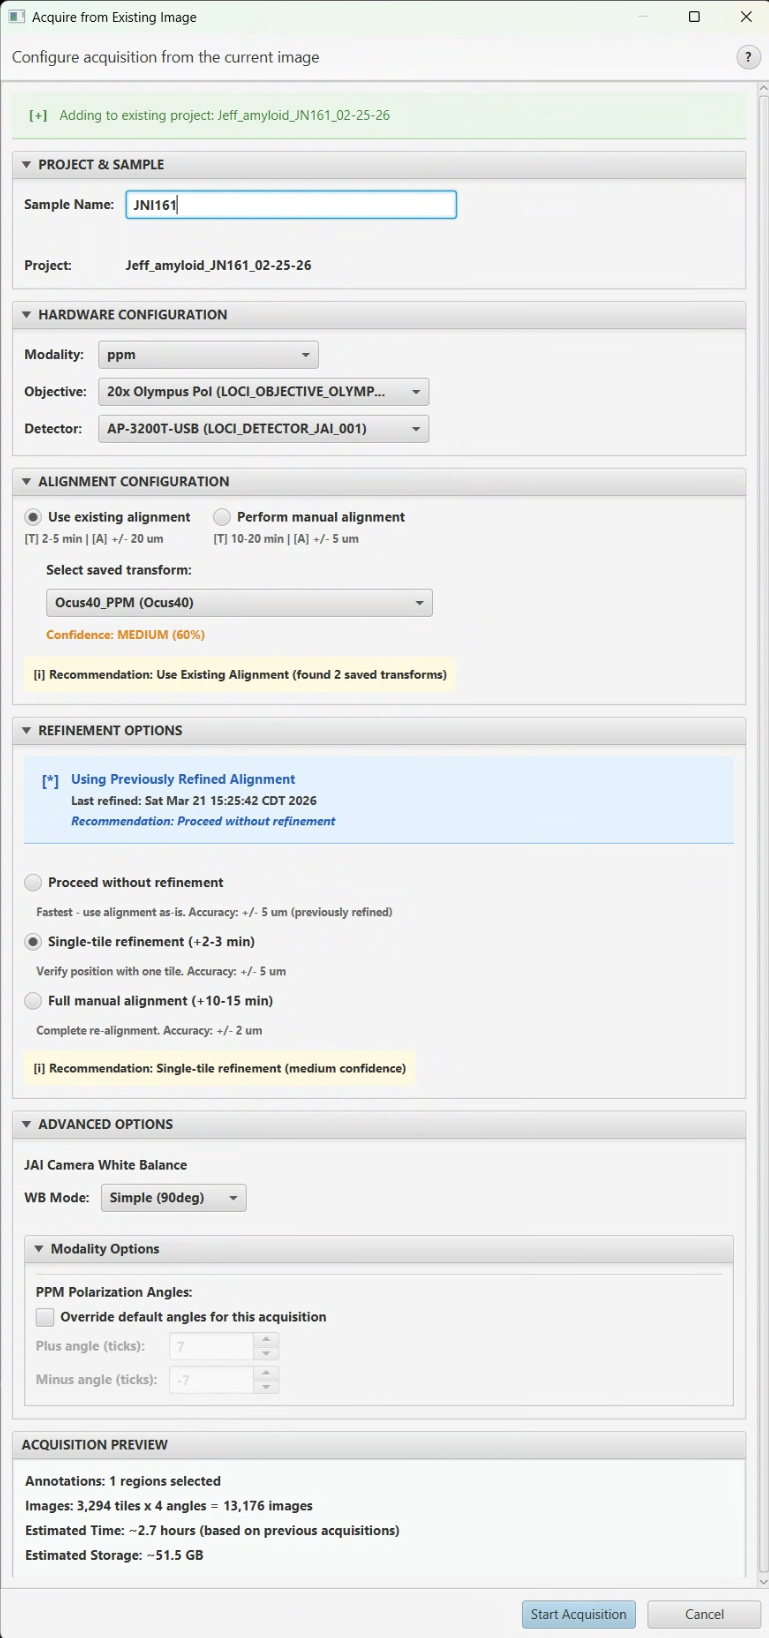
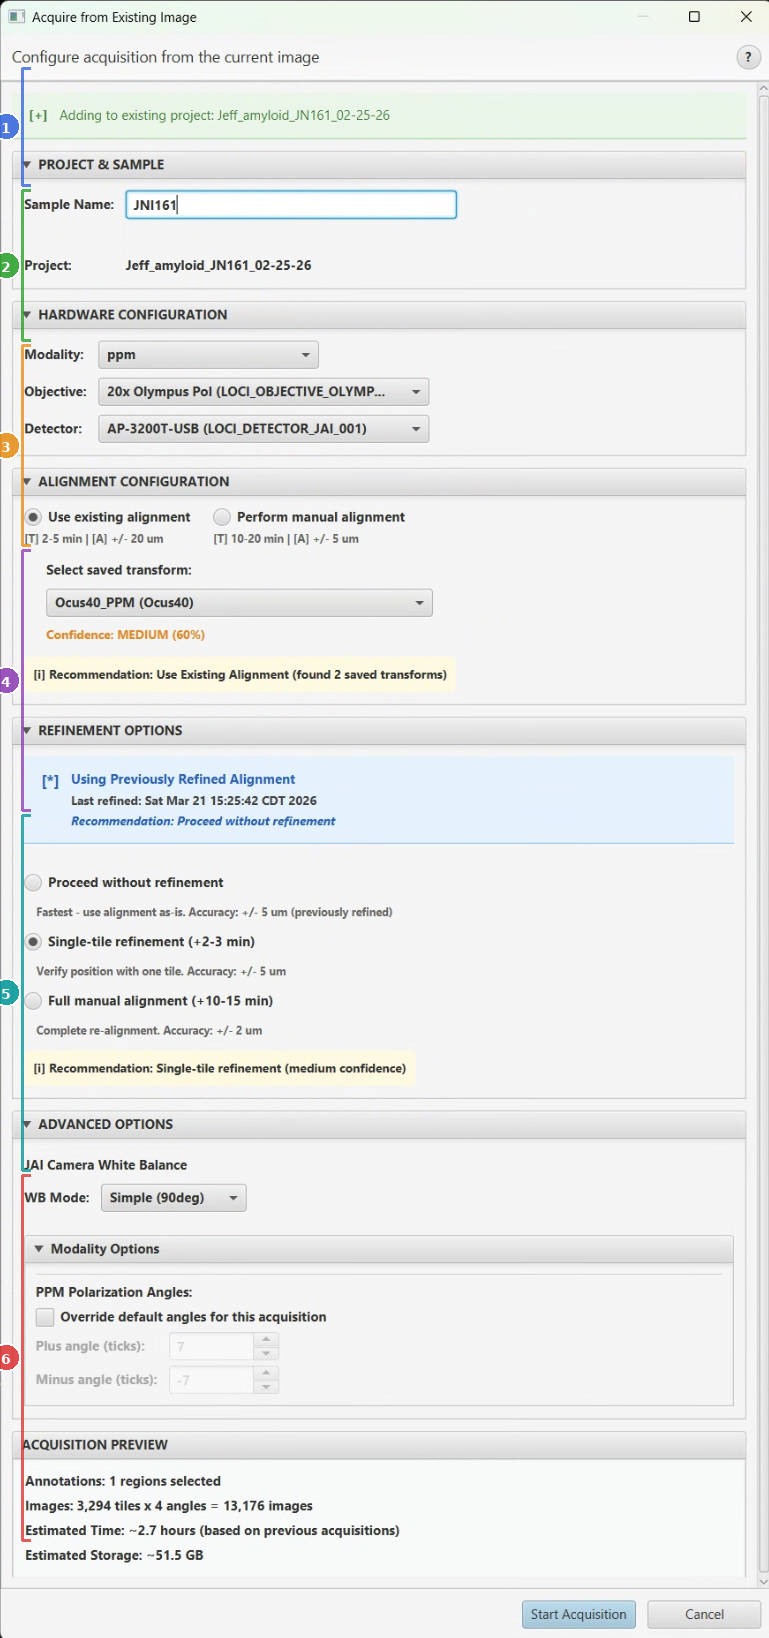
Add numbered section annotations to Existing Image dialog screenshot
Pillow-based annotation tool adds colored numbered brackets to the left
side of the tall dialog, corresponding to (1) Project & Sample,
(2) Hardware Configuration, (3) Alignment Configuration,
(4) Refinement Options, (5) Advanced Options, (6) Acquisition Preview.
WORKFLOWS.md updated to reference section numbers.

Changed region(s): [[0.0, 0.0623, 0.0312, 0.9341]]

diff --git a/documentation/WORKFLOWS.md b/documentation/WORKFLOWS.md
@@ -193,23 +193,22 @@ If annotations with classification labels exist, a dialog shows all available cl
 
 A consolidated dialog appears with several sections:
 
-The dialog is divided into collapsible sections (shown below). You can expand or collapse each section by clicking its header.
+The dialog is divided into six collapsible sections, numbered in the screenshot below. You can expand or collapse each section by clicking its header.
 
-![Acquire from Existing Image dialog -- Project, Hardware, and Alignment sections](images/Docs_ExistingImage_ConsolidatedDialog.png)
+![Acquire from Existing Image dialog with numbered sections](images/Docs_ExistingImage_ConsolidatedDialog.png)
 
-- **Project & Sample** -- The sample name defaults to the image filename. If no project is open, choose a projects folder. If a project is open, it will be reused automatically.
-- **Hardware Configuration** -- Select modality, objective, and detector (same as Bounded Acquisition).
-- **Alignment** -- Choose how to link image coordinates to stage positions:
+- **(1) Project & Sample** -- The sample name defaults to the image filename. If no project is open, choose a projects folder. If a project is open, it will be reused automatically.
+- **(2) Hardware Configuration** -- Select modality, objective, and detector (same as Bounded Acquisition).
+- **(3) Alignment Configuration** -- Choose how to link image coordinates to stage positions:
   - *Use existing transform* -- Select a previously saved alignment from the dropdown. A confidence indicator helps you decide if the transform is reliable.
   - *Create new alignment* -- Opens the alignment workflow to create a new transform.
-- **Refinement** -- Choose how much to verify the alignment before scanning:
+- **(4) Refinement Options** -- Choose how much to verify the alignment before scanning:
   - *No refinement* (fastest) -- Trust the saved transform and proceed immediately.
   - *Single-tile refinement* (recommended) -- Acquire one reference tile and visually verify its position. This catches small drift without a full re-alignment.
   - *Full manual alignment* -- Run the complete point-matching alignment process. Use this the first time or after hardware changes.
-- **White Balance** -- Select the white balance mode.
-- **Advanced Options** -- Override rotation angles, adjust green box detection parameters, or configure modality-specific settings.
+- **(5) Advanced Options** -- White balance mode, rotation angle overrides, green box detection parameters, and modality-specific settings.
 
-The dialog shows a preview with tile count, estimated time, and storage requirements for the selected annotations.
+**(6) Acquisition Preview** at the bottom shows tile count, estimated time, and storage requirements for the selected annotations.
 
 **5. Click OK to start.**
 
